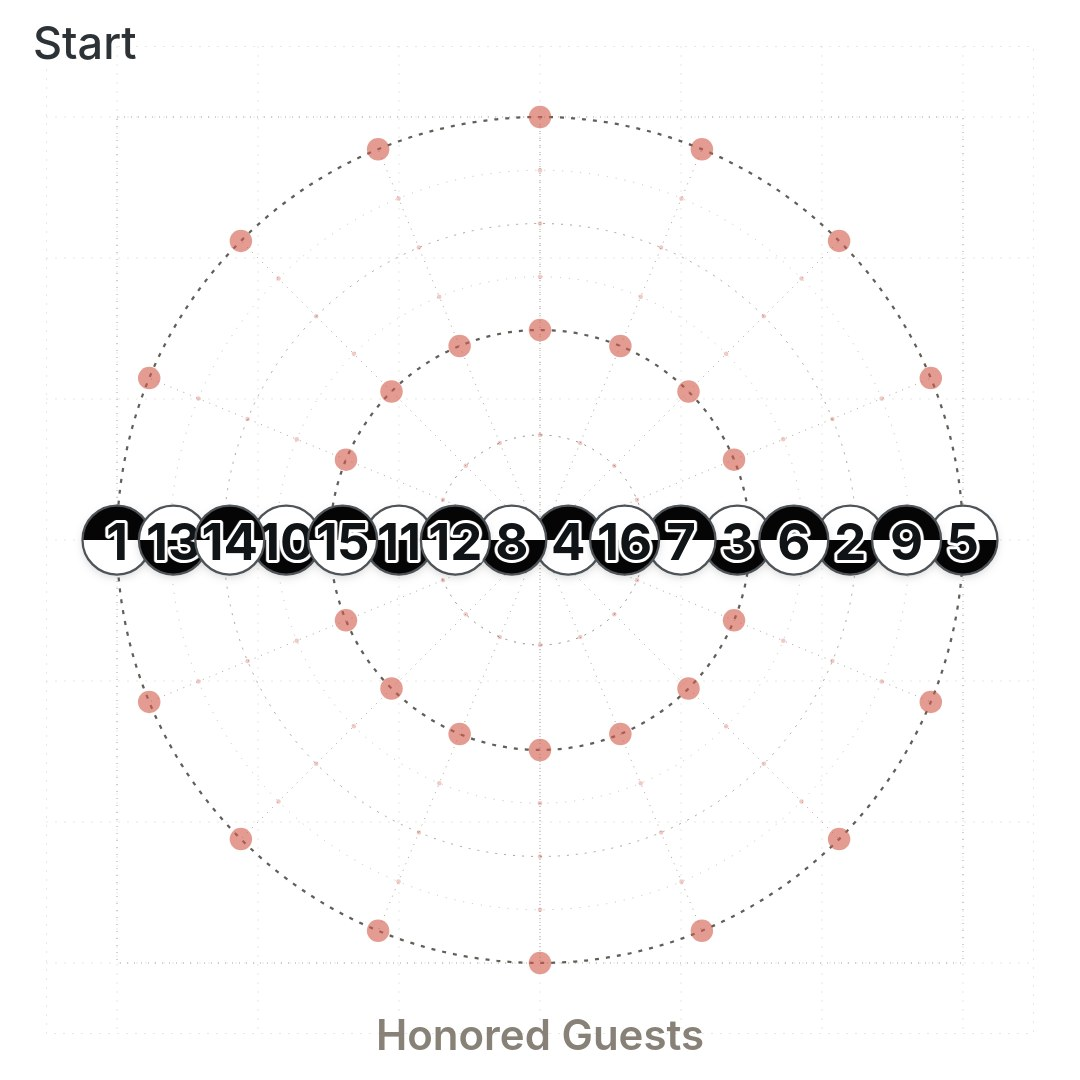
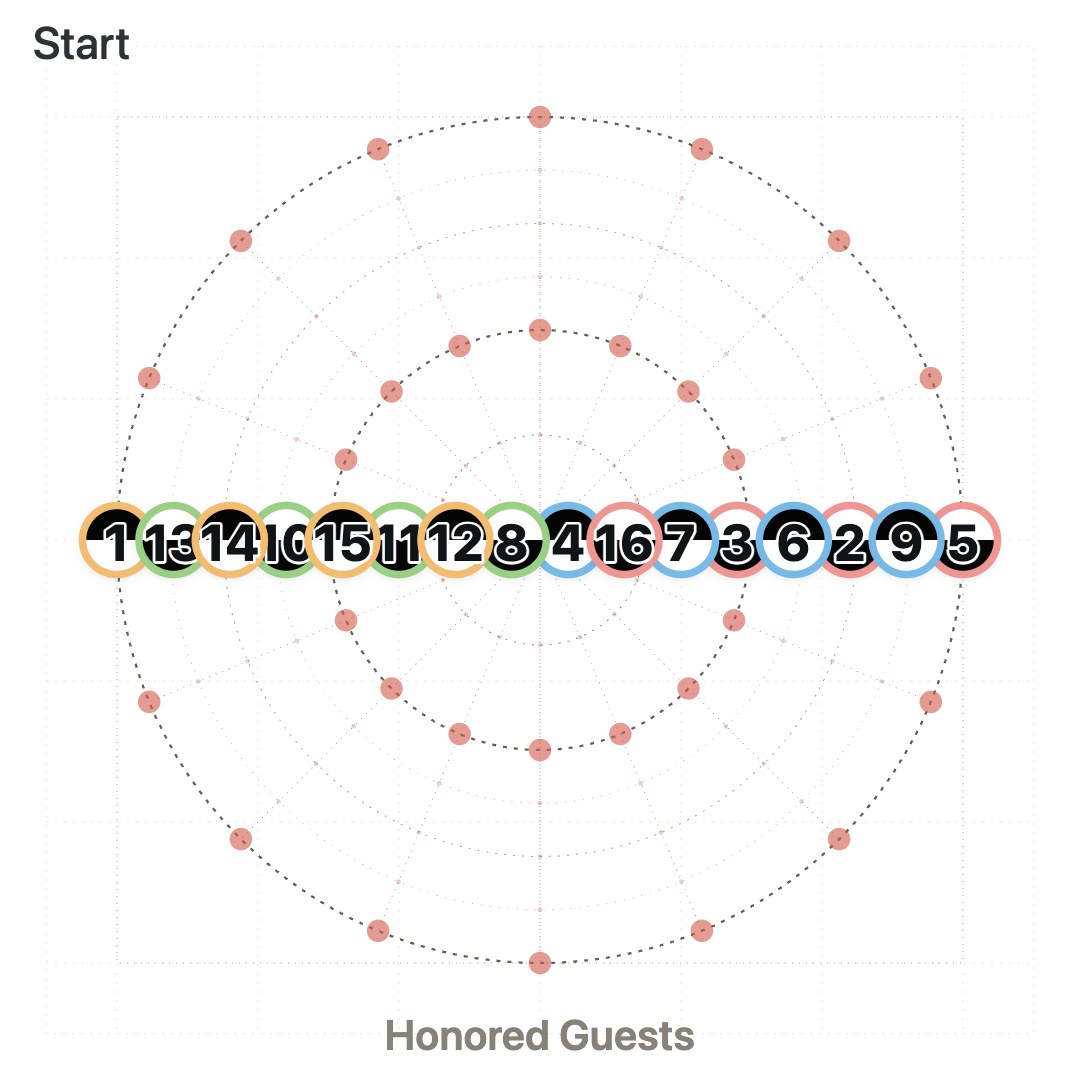
Waltz: swirl Measures 2 onward move to 15 Theme 1: Bombastic (Start, Orphan 3, Measures 1–5)

diff --git a/index.html b/index.html
@@ -5144,7 +5144,9 @@
           // facing the Honored Guests the other way round: from couple 1 at the left end, the lead
           // faces the Honored Guests (the lead's half to the north), then the follow (the lead's half
           // to the south), and so on.
-          bombastic: (() => {
+          // Sections 16–18 are still seeded from this plain line (Ariel, 11/19); Bombastic itself now
+          // starts from the swirl frames (see bombasticSnapshots).
+          seed: (() => {
             const line = frame("Start", 1, 4, FIT);
             const byX = [...line.items].sort((a, b) => a.x - b.x).map((item) => item.number);
             line.items.forEach((item) => { item.facingMode = byX.indexOf(item.number) % 2 ? "south" : "north"; });
@@ -5212,11 +5214,20 @@
     }
     const bloomsTransitionSnapshots = () => xToLineSnapshots("blooms");
     const flowerBloomingSnapshots = () => xToLineSnapshots("horizontal").flowers;
-    const swirlingCascadeSnapshots = () => xToLineSnapshots("horizontal").swirl;
-    const bombasticSnapshots = () => xToLineSnapshots("horizontal").bombastic;
+    // The swirl frames run on into 15 · Theme 1: Bombastic (Ariel, 11/23): 14 keeps its Start and
+    // Measure 1; its old Measure 2 (the outlined groups) is Bombastic's Start, Measure 3 is Orphan 3,
+    // and Measure 4 onwards are Bombastic's Measure 1 onwards. The swirl code above still numbers
+    // them as one run (its "Measure N" is Bombastic's Measure N − 3).
+    const SWIRL_FRAMES = 2;
+    const swirlingCascadeSnapshots = () => xToLineSnapshots("horizontal").swirl.slice(0, SWIRL_FRAMES);
+    const bombasticSnapshots = () => xToLineSnapshots("horizontal").swirl.slice(SWIRL_FRAMES).map((shot, index) => ({
+      ...shot,
+      annotation: { title: "Theme 1: Bombastic", subtitle: index === 0 ? "Start" : index === 1 ? "Orphan 3" : `Measure ${index - 1}` },
+    }));
+    const bombasticSeed = () => xToLineSnapshots("horizontal").seed;
     // Sections 16–18 are seeded with 15's Start, the horizontal line (Ariel, 11/19); their
     // choreography is still to come.
-    const seededFromBombastic = (title) => () => bombasticSnapshots().slice(0, 1)
+    const seededFromBombastic = (title) => () => bombasticSeed().slice(0, 1)
       .map((shot) => ({ ...structuredClone(shot), annotation: { title, subtitle: "Start" } }));
     // Waltz section 11B, Cascade (Ariel, 11/16): 3 measures in the vertical line, counted in 6. The
     // cascade runs front to back (from the Honored Guests): one couple a beat through Measures 1–2,
